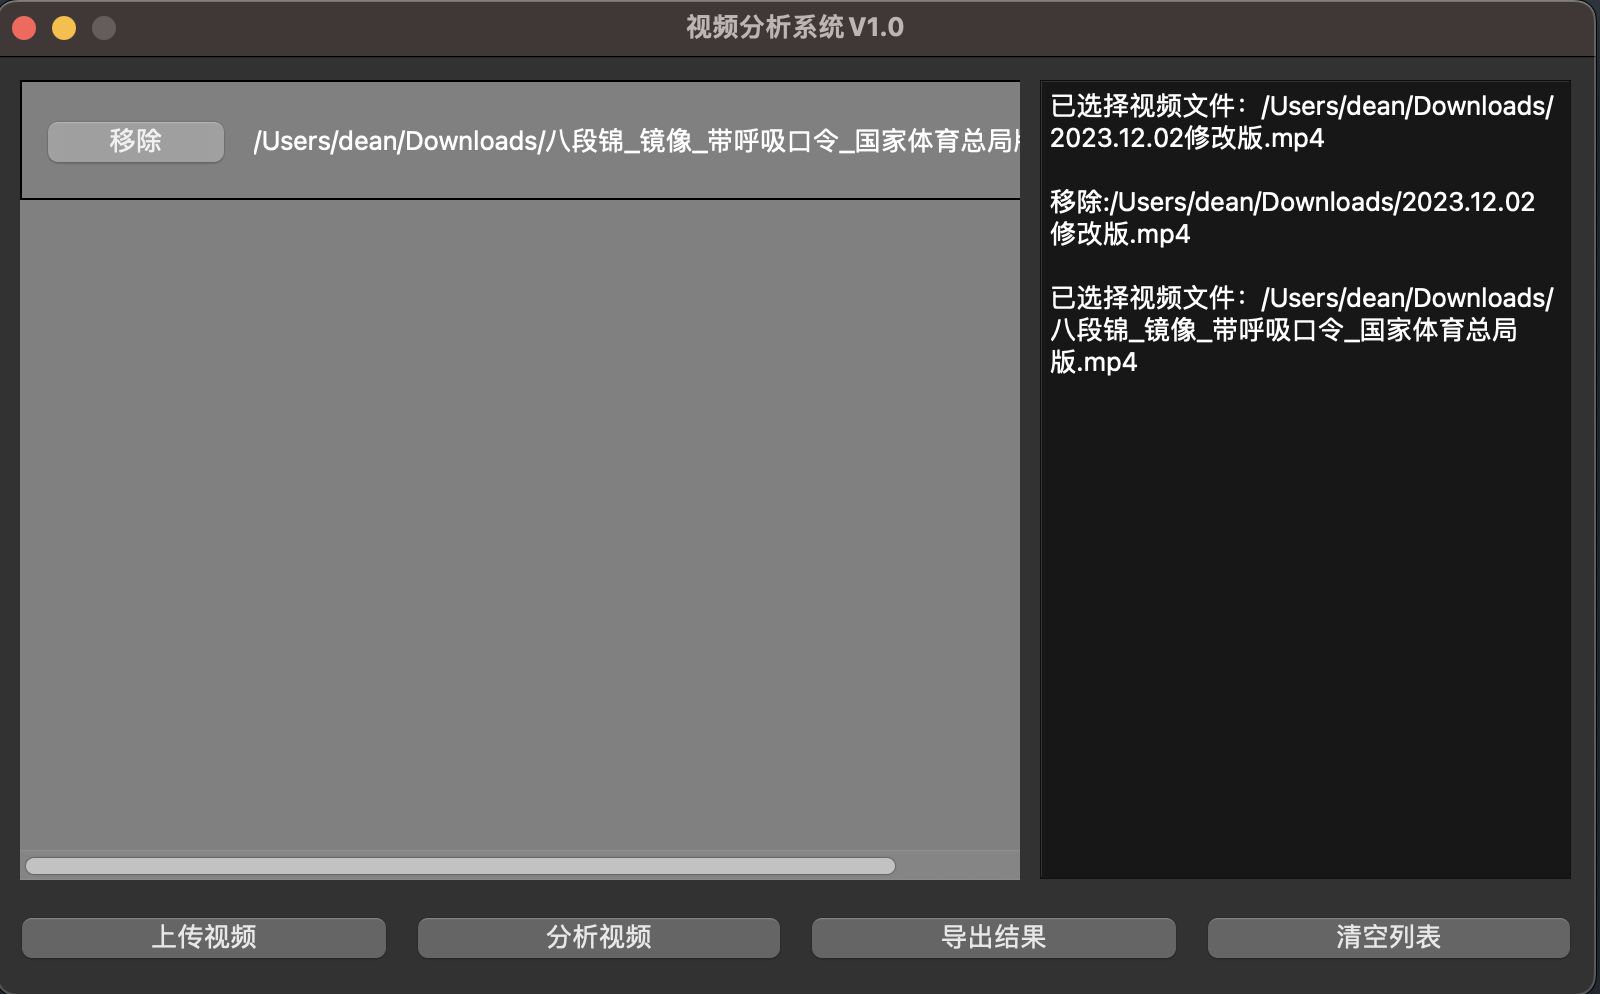
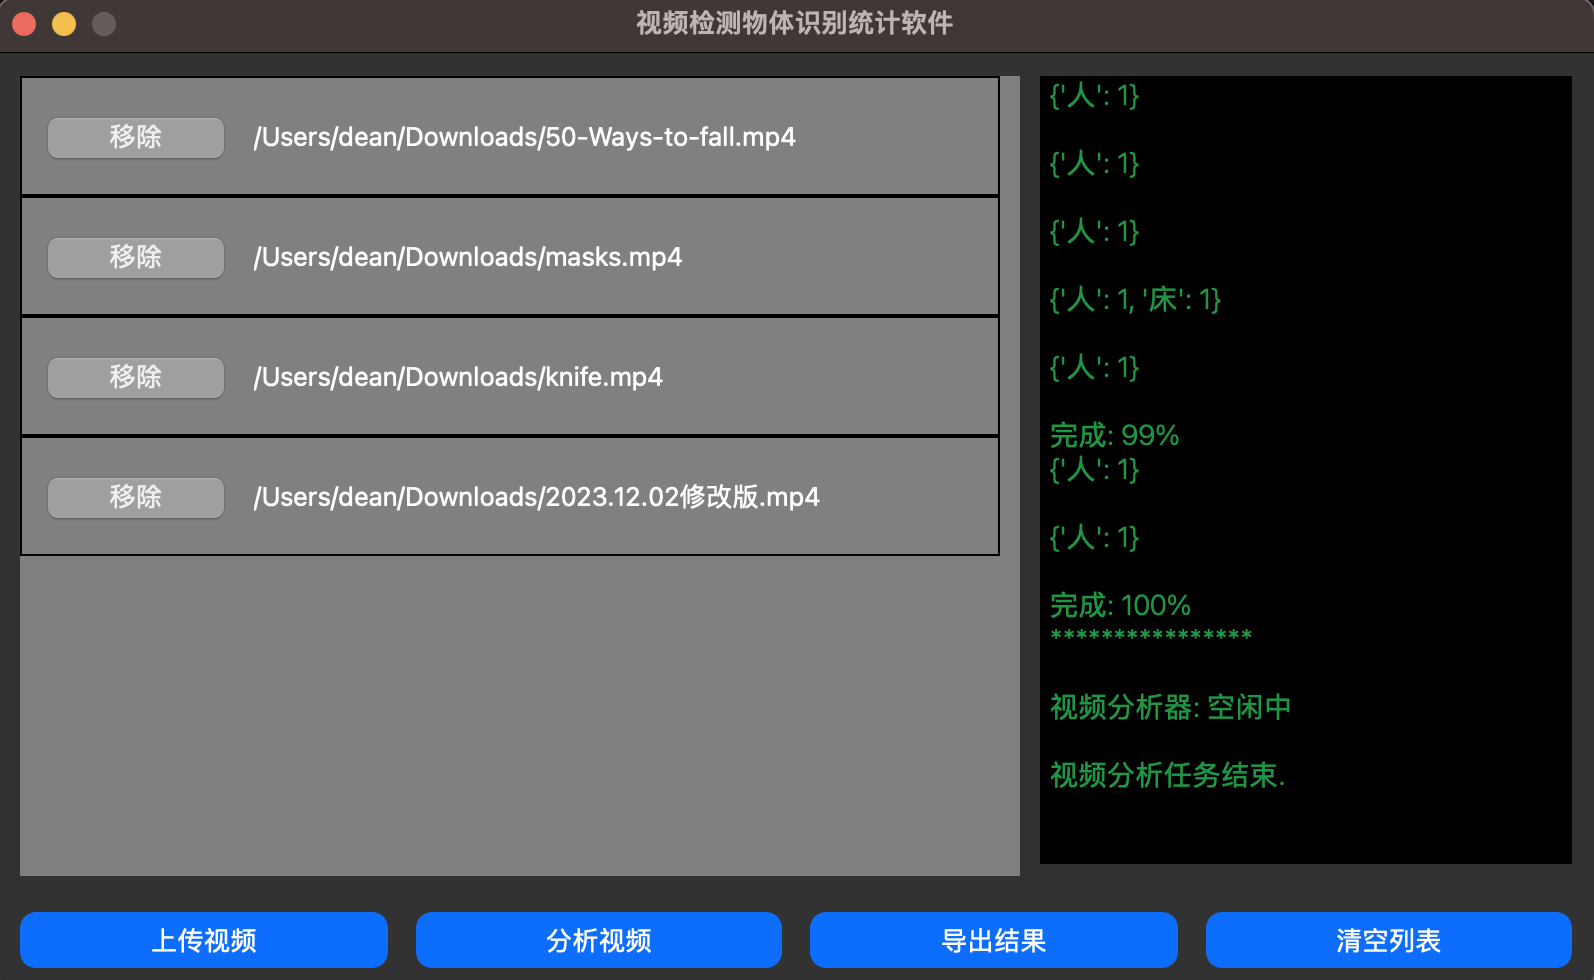
fix

diff --git a/src/videotrackersystem/app.py b/src/videotrackersystem/app.py
@@ -40,7 +40,7 @@ class VideoTrackerSystem(QMainWindow):
 
     def init_ui(self):
         # set window title
-        self.setWindowTitle("视频分析系统V1.0")
+        self.setWindowTitle("视频检测物体识别统计软件")
         # set width/height
         self.setFixedSize(800, 470)
         # video list

diff --git a/READEME.md b/READEME.md
@@ -9,14 +9,17 @@
 
 - [x] 上传视频：支持mp4/avi 格式
 - [x] 分析视频：按照毫秒逐帧分析
-- [] 导出结果：导出excel或者csv
+- [x] 导出结果：导出excel或者csv
 - [x] 清空列表：清空列表和日志信息
 
 
 ## QA 
 
 1. QA: 当分析视频时，日志无法实时显示更新
-   Solution: Signal failed, Timer failed, and Test MultiThread.
+   Solution: 多进程
+2. QA: 导出数据
+   Solution: pandas=>excel.
+   
 
 
 ## Build&Deploy
